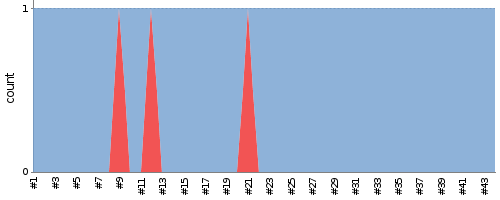
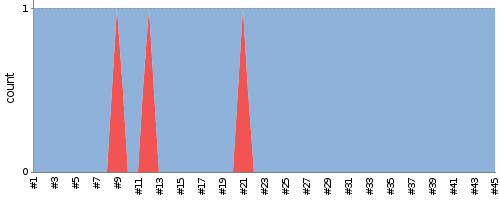
update report

Changed region(s): [[0.09, 0.06, 1.0, 0.99]]

diff --git a/index.md b/index.md
@@ -1,7 +1,7 @@
 ---
 layout: default
 ---
-Last update : 2016/01/31 09:02:34
+Last update : 2016/01/31 09:10:29
   
 ### Job Summary
 ___
@@ -204,11 +204,12 @@ ___
 ___
 #### Build Stability
 ![Jenkins Icon](http://jenkinshrg.github.io/images/48x48/health-80plus.png)
-86%
+87%
   
 #### Build History
 |Status|Time|Duration|Inspection|Test|Coverage|Changes|Build|Console|Image|Video|Note|
 |---|---|---|---|---|---|---|---|---|---|---|---|---|
+|![Jenkins Icon](http://jenkinshrg.github.io/images/24x24/blue.png)SUCCESS|2016/01/31 09:00|8 min.||0 err.||||[irex-balance-beam-auto.txt](https://drive.google.com/file/d/0B54sHwaxmuM4UnJ5WndmZlhTMXM/view?usp=drivesdk)<br>|[irex-balance-beam-auto.png](https://drive.google.com/file/d/0B54sHwaxmuM4VXZGajVaRTVPWlE/view?usp=drivesdk)<br>|[irex-balance-beam-auto.ogv](https://drive.google.com/file/d/0B54sHwaxmuM4RUI2bG5jcF9sS2s/view?usp=drivesdk)<br>||
 |![Jenkins Icon](http://jenkinshrg.github.io/images/24x24/blue.png)SUCCESS|2016/01/31 08:00|8 min.||0 err.||||[irex-balance-beam-auto.txt](https://drive.google.com/file/d/0B54sHwaxmuM4N0FsQWtCRnVEY00/view?usp=drivesdk)<br>|[irex-balance-beam-auto.png](https://drive.google.com/file/d/0B54sHwaxmuM4M1F2cktqLU02dnM/view?usp=drivesdk)<br>|[irex-balance-beam-auto.ogv](https://drive.google.com/file/d/0B54sHwaxmuM4OHJGamJIbnZxQW8/view?usp=drivesdk)<br>||
 |![Jenkins Icon](http://jenkinshrg.github.io/images/24x24/blue.png)SUCCESS|2016/01/31 07:00|8 min.||0 err.||||[irex-balance-beam-auto.txt](https://drive.google.com/file/d/0B54sHwaxmuM4VUhwbFU0UXZBNGs/view?usp=drivesdk)<br>|[irex-balance-beam-auto.png](https://drive.google.com/file/d/0B54sHwaxmuM4WXRyTlZVbHlYajQ/view?usp=drivesdk)<br>|[irex-balance-beam-auto.ogv](https://drive.google.com/file/d/0B54sHwaxmuM4RG95WXp4Ry00SlE/view?usp=drivesdk)<br>||
 |![Jenkins Icon](http://jenkinshrg.github.io/images/24x24/blue.png)SUCCESS|2016/01/31 06:00|8 min.||0 err.||||[irex-balance-beam-auto.txt](https://drive.google.com/file/d/0B54sHwaxmuM4a0kzcldBSTNWUzg/view?usp=drivesdk)<br>|[irex-balance-beam-auto.png](https://drive.google.com/file/d/0B54sHwaxmuM4ZUx2d1ZSc01lY28/view?usp=drivesdk)<br>|[irex-balance-beam-auto.ogv](https://drive.google.com/file/d/0B54sHwaxmuM4RjExbzl0YUtmREE/view?usp=drivesdk)<br>||
